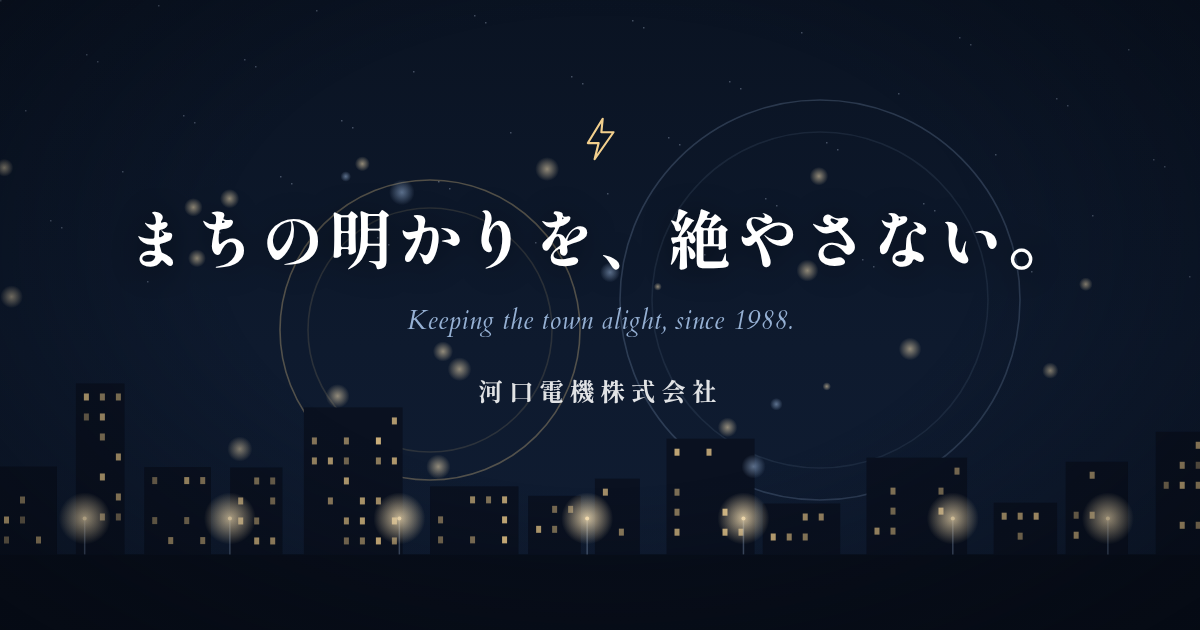
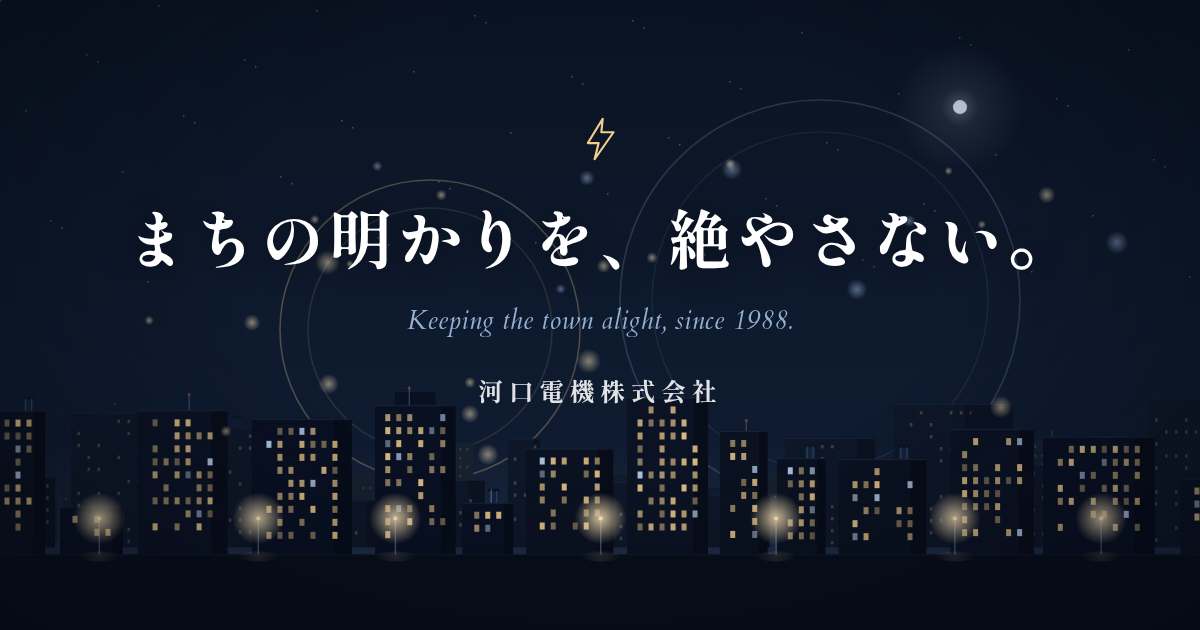
ヒーローの夜景をよりリアルに（施主要望）
- まちなみを遠景・中景・近景の3層構成に（空気遠近・奥行き）
- 窓をフロアに揃えて配置し、初期点灯は同一フロアの連続窓のかたまりに
- 屋上ディテール（給水タンク・アンテナ・小屋・セットバック）、
  側面の陰影、上端のリムライトを追加
- 高層ビルに航空障害灯（ゆっくり明滅、reduced-motion時は静止）
- 薄雲ごしの月、地平の街明かりのにじみ、街灯の路面照り返し
- シルエットはオフスクリーンに事前描画し毎フレームは合成のみ
  （rAF1本・DPR上限2は維持、窓が増えても描画負荷は増やさない）
- OGP画像（assets/img/og.png）も同じ絵柄で再生成

波紋→通過した窓が灯って残る→カウンター増加の挙動、
prefers-reduced-motion 時の全点灯静止画は従来どおり（テスト済み）。

Claude-Session: https://claude.ai/code/session_018Ygjpr8mDpFx44UUzVbTjv

diff --git a/assets/js/hero.js b/assets/js/hero.js
@@ -1,26 +1,91 @@
-/* トップページ インタラクティブヒーロー「波紋が灯していく」（Canvas 2D） */
+/* トップページ インタラクティブヒーロー「波紋が灯していく」（Canvas 2D）
+   まちなみは遠景・中景・近景の3層。シルエットは buildTown() で一度だけ
+   オフスクリーンに描き、毎フレームは合成するだけ（rAFは1本のまま）。 */
 (function(){
   var reduce=matchMedia('(prefers-reduced-motion: reduce)').matches;
   var canvas=document.getElementById('fx');if(!canvas)return;
   var hero=document.querySelector('.hero-fx');
   var ctx=canvas.getContext('2d');
   var cntEl=document.getElementById('cnt'),totEl=document.getElementById('tot');
-  var W,H,DPR,windows=[],lamps=[],skyline=[],litCount=0;
+  var W,H,DPR,windows=[],lamps=[],beacons=[],litCount=0;
+  var backL,midL,frontL;
+  function newLayer(){var c=document.createElement('canvas');c.width=W*DPR;c.height=H*DPR;var g=c.getContext('2d');g.setTransform(DPR,0,0,DPR,0,0);return c;}
   function buildTown(){
-    windows=[];lamps=[];skyline=[];litCount=0;
-    var ground=H*0.86,x=-20;
+    windows=[];lamps=[];beacons=[];litCount=0;
+    var ground=H*0.86,x,c,r;
+
+    /* --- 遠景: 霞んだシルエット。空気遠近で明るめの色、窓は点描 --- */
+    backL=newLayer();var b=backL.getContext('2d');
+    x=-30;
     while(x<W+40){
-      var bw=30+Math.random()*70,bh=40+Math.random()*Math.min(150,H*0.22);
-      skyline.push({x:x,y:ground-bh,w:bw,h:bh});
-      var cols=Math.max(1,Math.floor(bw/16)),rows=Math.max(1,Math.floor(bh/20));
-      for(var c=0;c<cols;c++)for(var r=0;r<rows;r++){
-        if(Math.random()<0.5)windows.push({x:x+8+c*16,y:ground-bh+10+r*20,lit:0,target:0,flick:.06+Math.random()*.12,phase:Math.random()*6.28});
-      }
-      x+=bw+6+Math.random()*26;
+      var bw=22+Math.random()*52,bh=28+Math.random()*Math.min(92,H*0.15),by=ground-14-bh;
+      b.fillStyle='#16202f';b.fillRect(x,by,bw,bh);
+      if(Math.random()<0.3){b.strokeStyle='rgba(120,140,170,.35)';b.lineWidth=1;b.beginPath();b.moveTo(x+bw*0.5,by);b.lineTo(x+bw*0.5,by-5-Math.random()*8);b.stroke();}
+      b.fillStyle='rgba(220,205,180,.15)';
+      for(c=x+4;c<x+bw-4;c+=7)for(r=by+5;r<by+bh-4;r+=9)if(Math.random()<0.26)b.fillRect(c,r,1.6,2.2);
+      x+=bw+2+Math.random()*14;
     }
+
+    /* --- 中景: 暗い面、薄明かりの窓、屋上の小屋・給水タンク --- */
+    midL=newLayer();var m=midL.getContext('2d');
+    x=-30;
+    while(x<W+40){
+      var mw=30+Math.random()*70,mh=42+Math.random()*Math.min(128,H*0.2),my=ground-7-mh;
+      m.fillStyle='#0e1728';m.fillRect(x,my,mw,mh);
+      m.fillStyle='rgba(0,0,0,.2)';m.fillRect(x+mw*0.8,my,mw*0.2,mh);
+      m.fillStyle='rgba(157,184,220,.07)';m.fillRect(x,my,mw,1);
+      if(Math.random()<0.3){m.fillStyle='#101b2e';m.fillRect(x+mw*0.15,my-7,Math.min(mw*0.3,22),7);}
+      if(Math.random()<0.2){m.fillStyle='#111d31';m.fillRect(x+mw*0.6,my-9,9,9);m.fillStyle='#0c1526';m.fillRect(x+mw*0.6-1,my-11,11,2);}
+      m.fillStyle='rgba(235,215,180,.12)';
+      for(c=x+6;c<x+mw-6;c+=10)for(r=my+7;r<my+mh-6;r+=12)if(Math.random()<0.2)m.fillRect(c,r,2.6,3.4);
+      if(mh>H*0.15&&Math.random()<0.28)beacons.push({x:x+mw*0.5,y:my-9,phase:Math.random()*6.28,far:true});
+      x+=mw+4+Math.random()*20;
+    }
+
+    /* --- 近景: 表情のあるビル群。窓はフロアに揃えて配置（インタラクティブ） --- */
+    frontL=newLayer();var f=frontL.getContext('2d');
+    x=-20;
+    while(x<W+40){
+      var fw=38+Math.random()*74,fh=46+Math.random()*Math.min(158,H*0.24),fy=ground-fh;
+      var tone=(Math.random()*3)|0;
+      f.fillStyle=['#0a1120','#0b1223','#091022'][tone];
+      f.fillRect(x,fy,fw,fh);
+      if(Math.random()<0.22&&fw>60){var sw=fw*0.5,sh=12+Math.random()*20;f.fillRect(x+(fw-sw)/2,fy-sh,sw,sh);f.fillStyle='rgba(157,184,220,.1)';f.fillRect(x+(fw-sw)/2,fy-sh,sw,1);f.fillStyle=['#0a1120','#0b1223','#091022'][tone];}
+      f.fillStyle='rgba(0,0,0,.25)';f.fillRect(x+fw*0.82,fy,fw*0.18,fh);
+      f.fillStyle='rgba(157,184,220,.12)';f.fillRect(x,fy,fw,1);
+      if(Math.random()<0.3){f.fillStyle='#0d1830';f.fillRect(x+4+Math.random()*Math.max(1,fw-24),fy-6,14,6);}
+      if(Math.random()<0.25){
+        var tx=x+6+Math.random()*Math.max(1,fw-20);
+        f.fillStyle='#13223c';f.fillRect(tx,fy-12,10,12);
+        f.fillStyle='#0b1424';f.fillRect(tx-1,fy-14,12,3);
+        f.strokeStyle='rgba(120,140,170,.35)';f.lineWidth=1;
+        f.beginPath();f.moveTo(tx+2,fy);f.lineTo(tx+2,fy-12);f.moveTo(tx+8,fy);f.lineTo(tx+8,fy-12);f.stroke();
+      }
+      if(Math.random()<0.3){
+        var ax=x+fw*(0.3+Math.random()*0.4),ah=8+Math.random()*16;
+        f.strokeStyle='rgba(120,140,170,.5)';f.lineWidth=1;
+        f.beginPath();f.moveTo(ax,fy);f.lineTo(ax,fy-ah);f.stroke();
+        if(fh>H*0.18)beacons.push({x:ax,y:fy-ah,phase:Math.random()*6.28});
+      }
+      var cols=Math.max(2,Math.floor((fw-14)/11)),floors=Math.max(2,Math.floor((fh-16)/13));
+      var wx0=x+(fw-(cols*11-6))/2;
+      for(var fl=0;fl<floors;fl++)for(var cc=0;cc<cols;cc++){
+        if(Math.random()<0.82)windows.push({x:wx0+cc*11,y:fy+9+fl*13,lit:0,target:0,flick:.05+Math.random()*.1,phase:Math.random()*6.28,cool:Math.random()<0.13});
+      }
+      x+=fw+5+Math.random()*24;
+    }
+
+    /* 初期点灯は同じフロアの隣り合う窓のかたまりで（生活の気配） */
+    var want=Math.round(windows.length*0.15),guard=0;
+    while(litCount<want&&guard++<6000){
+      var w0=windows[(Math.random()*windows.length)|0];
+      for(var k=0;k<windows.length&&litCount<want;k++){
+        var wk=windows[k];
+        if(wk.target===0&&wk.y===w0.y&&Math.abs(wk.x-w0.x)<=22){wk.target=1;wk.lit=1;litCount++;}
+      }
+    }
+
     for(var i=0;i<Math.floor(W/180);i++)lamps.push({x:60+i*180+Math.random()*60,y:ground,lit:0,target:0});
-    windows.forEach(function(w){if(Math.random()<0.15){w.target=1;w.lit=1;}});
-    litCount=windows.filter(function(w){return w.target>0}).length;
     totEl.textContent=windows.length;updateCnt();
   }
   function updateCnt(){cntEl.innerHTML='<b>'+litCount+'</b> / '+windows.length+' lights';}
@@ -42,16 +107,41 @@
       if(pointer.moved>10){pointer.moved=0;sparks.push({x:p.x,y:p.y,vx:dx*.06+(Math.random()-.5)*.5,vy:dy*.06-(.2+Math.random()*.5),life:1,size:.8+Math.random()*1.4,warm:Math.random()<.6});if(sparks.length>240)sparks.splice(0,sparks.length-240);}}
   },{passive:true});
   hero.addEventListener('touchstart',function(e){var p=pos(e);addRipple(p.x,p.y);},{passive:true});
-  function bg(){var g=ctx.createLinearGradient(0,0,0,H);g.addColorStop(0,'#0a1322');g.addColorStop(.55,'#0e1a2e');g.addColorStop(1,'#101d33');ctx.fillStyle=g;ctx.fillRect(0,0,W,H);ctx.fillStyle='rgba(200,215,240,.25)';for(var i=0;i<40;i++){ctx.fillRect((i*97)%W,((i*61)%Math.floor(H*.5)),1,1);}}
+  function bg(){
+    var g=ctx.createLinearGradient(0,0,0,H);g.addColorStop(0,'#0a1322');g.addColorStop(.55,'#0e1a2e');g.addColorStop(1,'#101d33');ctx.fillStyle=g;ctx.fillRect(0,0,W,H);
+    ctx.fillStyle='rgba(200,215,240,.25)';for(var i=0;i<40;i++){ctx.fillRect((i*97)%W,((i*61)%Math.floor(H*.5)),1,1);}
+    /* 薄雲ごしの月 */
+    var mx=W*0.76,my=H*0.16;
+    var mg=ctx.createRadialGradient(mx,my,0,mx,my,64);
+    mg.addColorStop(0,'rgba(215,226,244,.3)');mg.addColorStop(.3,'rgba(210,222,242,.09)');mg.addColorStop(1,'rgba(210,222,242,0)');
+    ctx.fillStyle=mg;ctx.beginPath();ctx.arc(mx,my,64,0,7);ctx.fill();
+    ctx.fillStyle='rgba(226,234,248,.8)';ctx.beginPath();ctx.arc(mx,my,6.5,0,7);ctx.fill();
+    /* 地平の街明かりのにじみ（光害） */
+    var ground=H*0.86;
+    var hz=ctx.createLinearGradient(0,ground-110,0,ground);
+    hz.addColorStop(0,'rgba(125,148,198,0)');hz.addColorStop(1,'rgba(130,152,200,.12)');
+    ctx.fillStyle=hz;ctx.fillRect(0,ground-110,W,110);
+  }
   function town(t){
-    var ground=H*0.86;ctx.fillStyle='#0a1120';
-    skyline.forEach(function(b){ctx.fillRect(b.x,b.y,b.w,b.h)});
+    var ground=H*0.86;
+    ctx.drawImage(backL,0,0,W,H);
+    ctx.drawImage(midL,0,0,W,H);
+    ctx.drawImage(frontL,0,0,W,H);
     ctx.fillStyle='#080e1a';ctx.fillRect(0,ground,W,H-ground);
+    ctx.fillStyle='rgba(157,184,220,.06)';ctx.fillRect(0,ground,W,1);
+    /* 航空障害灯: ゆっくり明滅（reduced-motion時は静止） */
+    for(var i=0;i<beacons.length;i++){
+      var bc=beacons[i];
+      var a=reduce?0.3:(0.12+0.3*(0.5+0.5*Math.sin(t*.0015+bc.phase)));
+      if(bc.far)a*=0.6;
+      ctx.fillStyle='rgba(255,92,86,'+a+')';
+      ctx.beginPath();ctx.arc(bc.x,bc.y,bc.far?1.2:1.6,0,7);ctx.fill();
+    }
     windows.forEach(function(w){
       if(w.target>0&&w.lit<1)w.lit=Math.min(1,w.lit+.05);
       if(w.lit<=0)return;
       var a=w.lit*(0.62+Math.sin(t*.0011+w.phase)*w.flick);
-      ctx.fillStyle='rgba(242,207,141,'+Math.min(.9,Math.max(0,a))+')';
+      ctx.fillStyle=(w.cool?'rgba(196,218,246,':'rgba(242,207,141,')+Math.min(.9,Math.max(0,a))+')';
       ctx.fillRect(w.x,w.y,5,7);
       if(w.lit>0&&w.lit<1){var g=ctx.createRadialGradient(w.x+2,w.y+3,0,w.x+2,w.y+3,14);g.addColorStop(0,'rgba(255,231,184,'+(0.5*(1-w.lit))+')');g.addColorStop(1,'rgba(255,231,184,0)');ctx.fillStyle=g;ctx.beginPath();ctx.arc(w.x+2,w.y+3,14,0,7);ctx.fill();}
     });
@@ -59,7 +149,9 @@
       ctx.strokeStyle='rgba(120,140,170,.5)';ctx.lineWidth=1.5;
       ctx.beginPath();ctx.moveTo(l.x,l.y);ctx.lineTo(l.x,l.y-34);ctx.stroke();
       if(l.target>0&&l.lit<1)l.lit=Math.min(1,l.lit+.04);
-      if(l.lit>0){var g=ctx.createRadialGradient(l.x,l.y-36,0,l.x,l.y-36,26);g.addColorStop(0,'rgba(255,231,184,'+(.8*l.lit)+')');g.addColorStop(1,'rgba(255,231,184,0)');ctx.fillStyle=g;ctx.beginPath();ctx.arc(l.x,l.y-36,26,0,7);ctx.fill();ctx.fillStyle='rgba(255,231,184,'+l.lit+')';ctx.beginPath();ctx.arc(l.x,l.y-36,2,0,7);ctx.fill();}
+      if(l.lit>0){var g=ctx.createRadialGradient(l.x,l.y-36,0,l.x,l.y-36,26);g.addColorStop(0,'rgba(255,231,184,'+(.8*l.lit)+')');g.addColorStop(1,'rgba(255,231,184,0)');ctx.fillStyle=g;ctx.beginPath();ctx.arc(l.x,l.y-36,26,0,7);ctx.fill();ctx.fillStyle='rgba(255,231,184,'+l.lit+')';ctx.beginPath();ctx.arc(l.x,l.y-36,2,0,7);ctx.fill();
+        /* 路面のほのかな照り返し */
+        var rg=ctx.createRadialGradient(l.x,l.y+2,0,l.x,l.y+2,20);rg.addColorStop(0,'rgba(255,231,184,'+(.12*l.lit)+')');rg.addColorStop(1,'rgba(255,231,184,0)');ctx.fillStyle=rg;ctx.beginPath();ctx.ellipse(l.x,l.y+2,20,5,0,0,7);ctx.fill();}
     });
   }
   function drawRipples(){